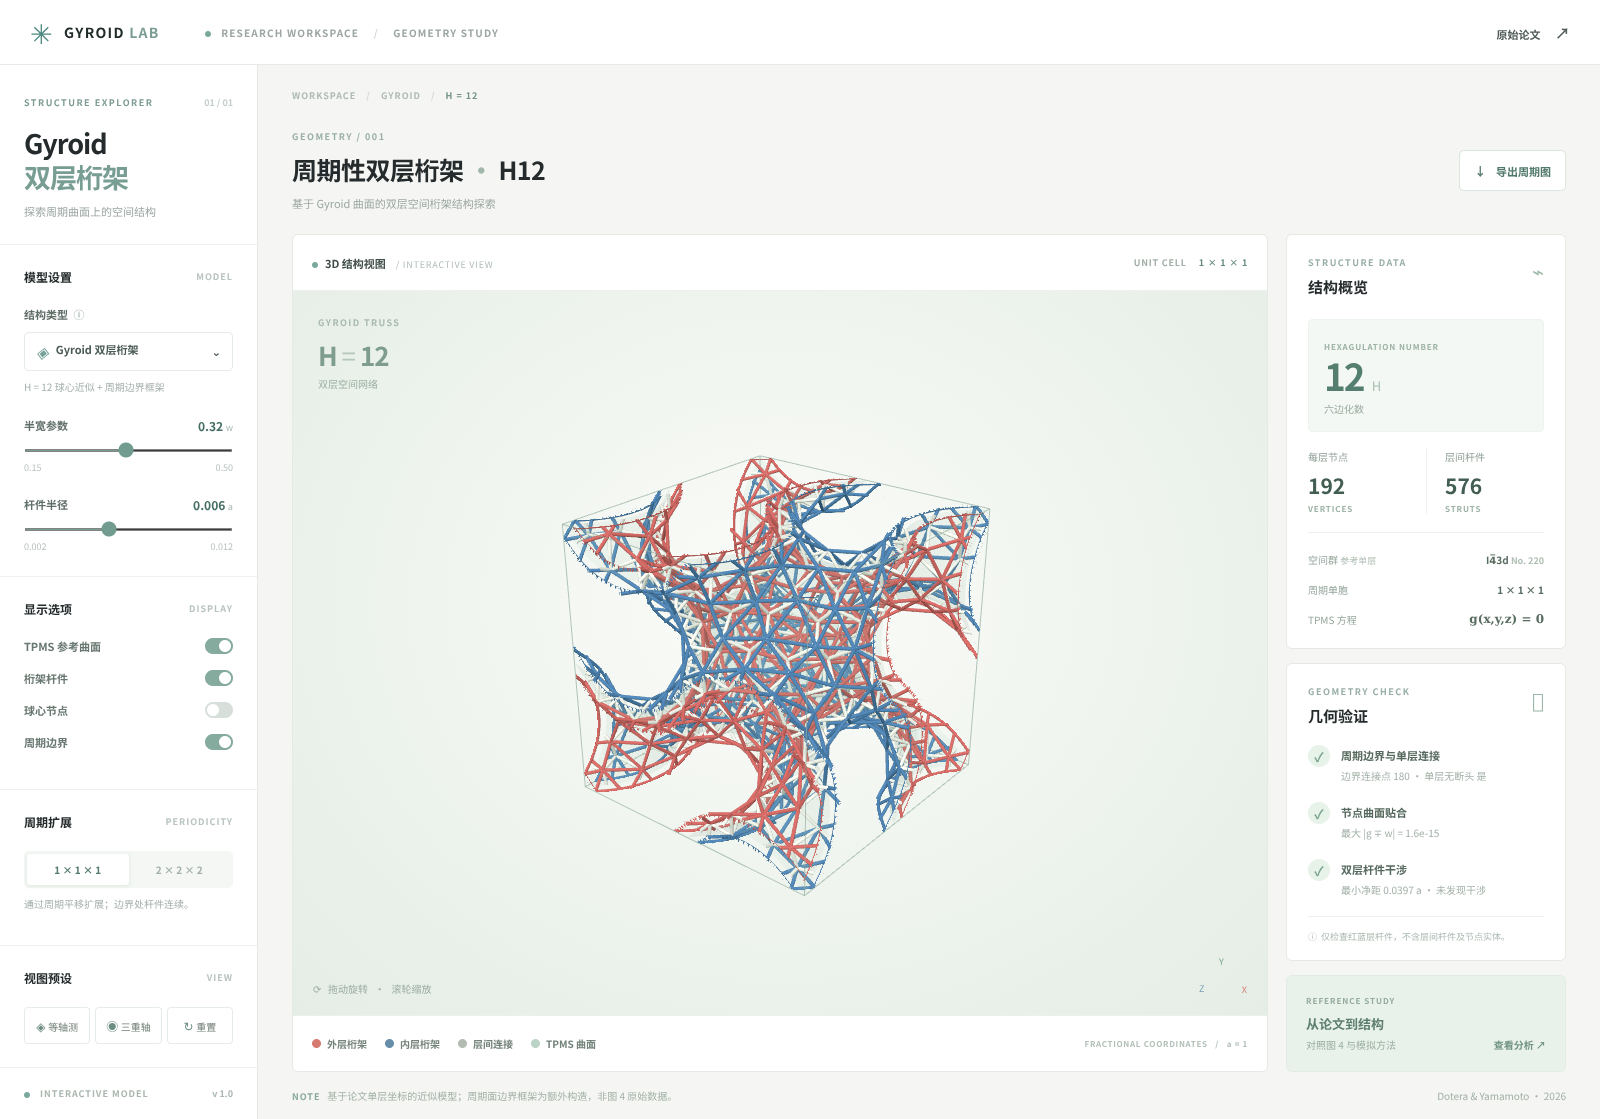
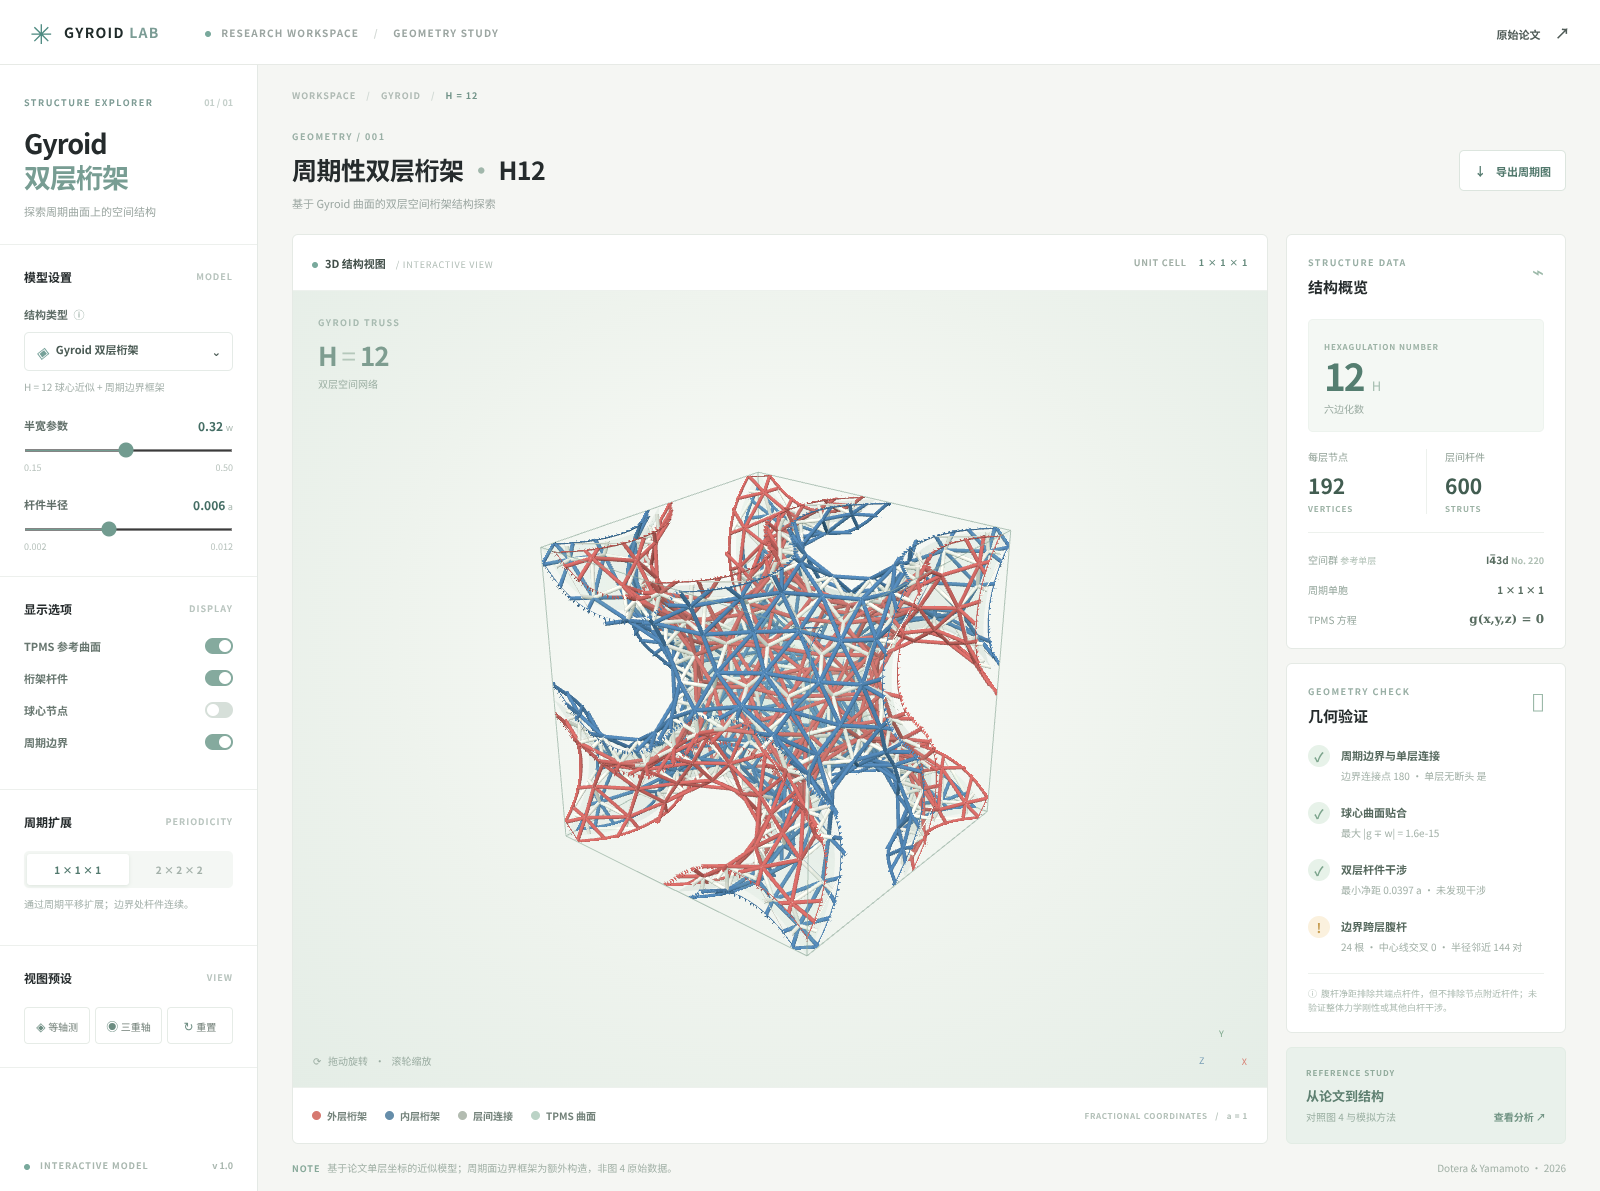
Add periodic cross-layer boundary web members

diff --git a/index.html b/index.html
@@ -8,8 +8,8 @@
 <main class="main"><div class="breadcrumb">WORKSPACE <span> / </span> GYROID <span> / </span> <b>H = 12</b></div><div class="page-head"><div><div class="eyebrow muted">GEOMETRY / 001</div><h2>周期性双层桁架 <span>·</span> H12</h2><p>基于 Gyroid 曲面的双层空间桁架结构探索</p></div><div class="head-actions"><button id="export" class="export">↓ <span>导出周期图</span></button></div></div>
 <div class="workspace"><div class="canvas-card"><div class="canvas-top"><div><span class="live-dot"></span><b>3D 结构视图</b><span class="canvas-sub"> / INTERACTIVE VIEW</span></div><div class="canvas-tag">UNIT CELL <span id="tileTag">1 × 1 × 1</span></div></div><div class="viewport" id="viewport"><div class="loading" id="loading">正在构建周期结构…</div><div class="viewport-overlay top-left"><span class="overlay-kicker">GYROID TRUSS</span><b>H <span>=</span> 12</b><small>双层空间网络</small></div><div class="view-help">⟳ &nbsp; 拖动旋转 &nbsp; · &nbsp; 滚轮缩放</div><div class="axis-key"><span class="axis-y">Y</span><span class="axis-z">Z</span><span class="axis-x">X</span></div></div><div class="canvas-bottom"><div class="legend"><span><i class="red"></i>外层桁架</span><span><i class="blue"></i>内层桁架</span><span><i class="white"></i>层间连接</span><span><i class="ghost"></i>TPMS 曲面</span></div><div class="coord">FRACTIONAL COORDINATES &nbsp; / &nbsp; a = 1</div></div></div>
 <div class="right-panel"><div class="panel-card overview"><div class="card-head"><div><div class="eyebrow muted">STRUCTURE DATA</div><h3>结构概览</h3></div><span class="card-icon">⌁</span></div><div class="metric-hero"><span>HEXAGULATION NUMBER</span><div><b>12</b><em>H</em></div><p>六边化数</p></div><div class="stat-grid"><div><span>每层节点</span><b id="nodeCount">192</b><small>VERTICES</small></div><div><span>层间杆件</span><b id="crossCount">—</b><small>STRUTS</small></div></div><div class="data-row"><span>空间群 <small>参考单层</small></span><b>I4̅3d <small>No. 220</small></b></div><div class="data-row"><span>周期单胞</span><b>1 × 1 × 1</b></div><div class="data-row"><span>TPMS 方程</span><b class="math">g(x,y,z) = 0</b></div></div>
-<div class="panel-card validation"><div class="card-head"><div><div class="eyebrow muted">GEOMETRY CHECK</div><h3>几何验证</h3></div><span class="card-icon">⌗</span></div><div class="check-row"><div class="check-icon" id="periodIcon">✓</div><div><b>周期边界与单层连接</b><p id="periodText">计算中…</p></div></div><div class="check-row"><div class="check-icon" id="surfaceIcon">✓</div><div><b>球心曲面贴合</b><p id="surfaceText">计算中…</p></div></div><div class="check-row"><div class="check-icon warning" id="clearIcon">!</div><div><b>双层杆件干涉</b><p id="clearText">计算中…</p></div></div><div class="validation-foot">ⓘ &nbsp;仅检查红蓝层杆件，不含层间杆件及节点实体；曲面残差仅限原始球心。</div></div>
+<div class="panel-card validation"><div class="card-head"><div><div class="eyebrow muted">GEOMETRY CHECK</div><h3>几何验证</h3></div><span class="card-icon">⌗</span></div><div class="check-row"><div class="check-icon" id="periodIcon">✓</div><div><b>周期边界与单层连接</b><p id="periodText">计算中…</p></div></div><div class="check-row"><div class="check-icon" id="surfaceIcon">✓</div><div><b>球心曲面贴合</b><p id="surfaceText">计算中…</p></div></div><div class="check-row"><div class="check-icon warning" id="clearIcon">!</div><div><b>双层杆件干涉</b><p id="clearText">计算中…</p></div></div><div class="check-row"><div class="check-icon warning" id="webIcon">!</div><div><b>边界跨层腹杆</b><p id="webText">计算中…</p></div></div><div class="validation-foot">ⓘ &nbsp;腹杆净距排除共端点杆件，但不排除节点附近杆件；未验证整体力学刚性或其他白杆干涉。</div></div>
 <div class="paper-card"><div><span>REFERENCE STUDY</span><b>从论文到结构</b><p>对照图 4 与模拟方法</p></div><button id="openPaper">查看分析 ↗</button></div></div></div>
 <div class="bottom-note"><span><b>NOTE</b> &nbsp; 基于论文单层坐标的近似模型；周期面边界框架为额外构造，非图 4 原始数据。</span><span>Dotera & Yamamoto · 2026</span></div></main></div>
-<div class="modal" id="modal"><div class="modal-card"><button id="closePaper" class="modal-close">×</button><div class="eyebrow muted">PAPER COMPARISON / FIGURE 4</div><h2>论文对照与模型说明</h2><div class="modal-body"><img src="/apps/gyroid-truss/assets/paper-figure4.png" alt="论文图4双层结构参考图"><div><h3>论文中的结构</h3><p>Dotera & Yamamoto (2026) 图 4 使用 H = 12，每层 192 个球；红、蓝为同层球心连杆，白色为跨层连杆。球心被约束在 g = ±w 附近，层间排布由硬球蒙特卡洛模拟得到。</p><h3>本模型的近似</h3><p>附件表 S2 给出了单层 Wyckoff 代表点，并非图 4 的双层球心及连边。这里将单层构型投影至 g = +w，再通过反演构造另一层；同层使用距离阈值、跨层取最近三个节点。为避免边界出现断头，另外沿两层等值面与单胞面的交线添加周期边界杆，并连接到跨边界杆件。这些边界杆是本应用新增的工程构造，并非论文图 4 的原始连杆。它不是论文的精确复现，也不保证整体无干涉或力学刚性。</p><h3>周期边界与干涉</h3><p>节点以单胞分数坐标表示，跨边界杆件携带整数平移向量。画面中的边界是对无限周期结构的显示窗口，而非更改拓扑的裁剪。检查结果仅适用于当前杆径，正值净距表示被检查的红蓝杆件没有碰撞。</p><a href="https://doi.org/10.1098/rsfs.2025.0098" target="_blank">阅读原论文 ↗</a></div></div></div></div>
+<div class="modal" id="modal"><div class="modal-card"><button id="closePaper" class="modal-close">×</button><div class="eyebrow muted">PAPER COMPARISON / FIGURE 4</div><h2>论文对照与模型说明</h2><div class="modal-body"><img src="/apps/gyroid-truss/assets/paper-figure4.png" alt="论文图4双层结构参考图"><div><h3>论文中的结构</h3><p>Dotera & Yamamoto (2026) 图 4 使用 H = 12，每层 192 个球；红、蓝为同层球心连杆，白色为跨层连杆。球心被约束在 g = ±w 附近，层间排布由硬球蒙特卡洛模拟得到。</p><h3>本模型的近似</h3><p>附件表 S2 给出了单层 Wyckoff 代表点，并非图 4 的双层球心及连边。这里将单层构型投影至 g = +w，再通过反演构造另一层；同层使用距离阈值、跨层取最近三个节点。为避免边界出现断头，另外沿两层等值面与单胞面的交线添加周期边界杆，并连接到跨边界杆件；在边界跨层节点之间加入白色腹杆。这些边界杆及白色腹杆是本应用新增的工程构造，并非论文图 4 的原始连杆。它不是论文的精确复现，也不保证整体无干涉或力学刚性。</p><h3>周期边界与干涉</h3><p>节点以单胞分数坐标表示，跨边界杆件携带整数平移向量。画面中的边界是对无限周期结构的显示窗口，而非更改拓扑的裁剪。检查结果仅适用于当前杆径，正值净距表示被检查的红蓝杆件没有碰撞。</p><a href="https://doi.org/10.1098/rsfs.2025.0098" target="_blank">阅读原论文 ↗</a></div></div></div></div>
 <script type="module" src="/apps/gyroid-truss/js/main.js"></script></body></html>

diff --git a/apps/gyroid-truss/js/main.js b/apps/gyroid-truss/js/main.js
@@ -39,7 +39,7 @@ function build(){
  const boxGeom=new THREE.EdgesGeometry(new THREE.BoxGeometry(tiles,tiles,tiles));const boxMat=new THREE.LineBasicMaterial({color:0x8ea99a,transparent:true,opacity:.65});const box=new THREE.LineSegments(boxGeom,boxMat);box.position.setScalar(tiles/2);box.name='box';box.visible=visible.box;box.userData.ownedMaterial=true;group.add(box);
  $('tileTag').textContent=`${tiles} × ${tiles} × ${tiles}`;resize();
 }
-function updateChecks(){const v=validate(model,radius);$('nodeCount').textContent=model.n;$('crossCount').textContent=v.cross;$('periodText').textContent=`边界连接点 ${v.boundary.junctionCount} · 单层无断头 ${v.connectivity.red.degreeOne + v.connectivity.blue.degreeOne === 0 ? '是' : '否'}`;$('surfaceText').textContent=`最大 |g ∓ w| = ${v.residual.toExponential(1)}`;const pass=v.minClearance>0;$('clearText').textContent=`最小净距 ${v.minClearance.toFixed(4)} a · ${pass?'未发现干涉':`${v.intersections} 对发生干涉`}`;$('clearIcon').textContent=pass?'✓':'!';$('clearIcon').className='check-icon '+(pass?'':'fail');$('periodIcon').className='check-icon '+(v.error<1e-8 && v.connectivity.red.components===1 && v.connectivity.blue.components===1 && v.connectivity.red.degreeOne===0 && v.connectivity.blue.degreeOne===0?'':'fail');$('surfaceIcon').className='check-icon '+(v.residual<1e-8?'':'fail')}
+function updateChecks(){const v=validate(model,radius);$('nodeCount').textContent=model.n;$('crossCount').textContent=v.cross+v.boundaryWebs.count;$('periodText').textContent=`边界连接点 ${v.boundary.junctionCount} · 单层无断头 ${v.connectivity.red.degreeOne + v.connectivity.blue.degreeOne === 0 ? '是' : '否'}`;$('surfaceText').textContent=`最大 |g ∓ w| = ${v.residual.toExponential(1)}`;const pass=v.minClearance>0;$('clearText').textContent=`最小净距 ${v.minClearance.toFixed(4)} a · ${pass?'未发现干涉':`${v.intersections} 对发生干涉`}`;$('clearIcon').textContent=pass?'✓':'!';$('clearIcon').className='check-icon '+(pass?'':'fail');$('webText').textContent=`${v.boundaryWebs.count} 根 · 中心线交叉 ${v.boundaryWebs.intersectionCount} · 半径邻近 ${v.boundaryWebs.nearCount} 对`; $('webIcon').className='check-icon '+(v.boundaryWebs.intersectionCount || v.boundaryWebs.nearCount ? 'warning' : ''); $('webIcon').textContent=v.boundaryWebs.intersectionCount || v.boundaryWebs.nearCount ? '!' : '✓';$('periodIcon').className='check-icon '+(v.error<1e-8 && v.connectivity.red.components===1 && v.connectivity.blue.components===1 && v.connectivity.red.degreeOne===0 && v.connectivity.blue.degreeOne===0?'':'fail');$('surfaceIcon').className='check-icon '+(v.residual<1e-8?'':'fail')}
 function rebuild(){model=buildBilayer(Number($('width').value));radius=Number($('radius').value);$('wValue').textContent=model.w.toFixed(2);$('radiusValue').textContent=radius.toFixed(3);build();updateChecks();$('loading').style.display='none'}
 for(const id of ['width','radius'])$(id).addEventListener('change',()=>{ $('loading').style.display='block';requestAnimationFrame(()=>setTimeout(rebuild,10)) });for(const id of ['surface','struts','nodes','box'])$(id).addEventListener('change',e=>{visible[id]=e.target.checked;group.traverse(o=>{if(o.name===id)o.visible=visible[id]})});
 document.querySelectorAll('#tiles button').forEach(btn=>btn.addEventListener('click',()=>{tiles=+btn.dataset.n;document.querySelectorAll('#tiles button').forEach(b=>b.classList.toggle('active',b===btn));build();cameraView()}));$('iso').onclick=()=>cameraView();$('axis').onclick=()=>cameraView(true);$('reset').onclick=()=>cameraView();$('openPaper').onclick=()=>$('modal').classList.add('open');$('closePaper').onclick=()=>$('modal').classList.remove('open');$('modal').onclick=e=>{if(e.target===$('modal'))$('modal').classList.remove('open')};document.addEventListener('keydown',e=>{if(e.key==='Escape')$('modal').classList.remove('open')});

diff --git a/README.md b/README.md
@@ -17,3 +17,9 @@ Dotera & Yamamoto, *Hexagulation numbers: symmetry breaking on the gyroid surfac
 Three.js 0.170.0 is vendored under its MIT license (see `apps/gyroid-truss/vendor/THREE-LICENSE.txt`). The supplied figure is displayed for comparison with attribution to the paper (CC BY 4.0).
 
 边界轮廓是每个偏置层 `g=±w` 与单胞面的交线，不是中央参考面 `g=0` 的交线。由于有限采样与直线近似，边界杆只近似等值面；新增短接杆不是论文的球心接触图。周期图的无度一节点和连通性不等同于无自交、完整三角化或力学稳定。
+
+## 边界层间腹杆
+
+在三对周期面上，以红蓝跨面桁架节点为端点，按最短距离及空间间距选择额外白色腹杆，拒绝与非共端点已有杆件发生中心线交叉的候选。腹杆端点及整数偏移属于周期图，平移后两侧对应；新增杆件标记为 `boundary-web`。这是工程近似而非论文原始连杆。
+
+应用分别报告新增腹杆与其他非共端点杆件的周期中心线交叉数和胶囊近距离对数。默认参数存在半径范围内的邻近对，部分发生在离散边界曲线的节点附近；不可将其视作无干涉的制造模型。它没有把非共端点附近的杆件自动合并为节点，也没有排除所有节点连接区，须进一步检查与建模。原有白杆之间和原有白杆与所有其他杆件的完整干涉没有验证。增加腹杆不等于证明结构稳定：必须进行周期约束下的刚度矩阵秩/模态及有限元分析。
